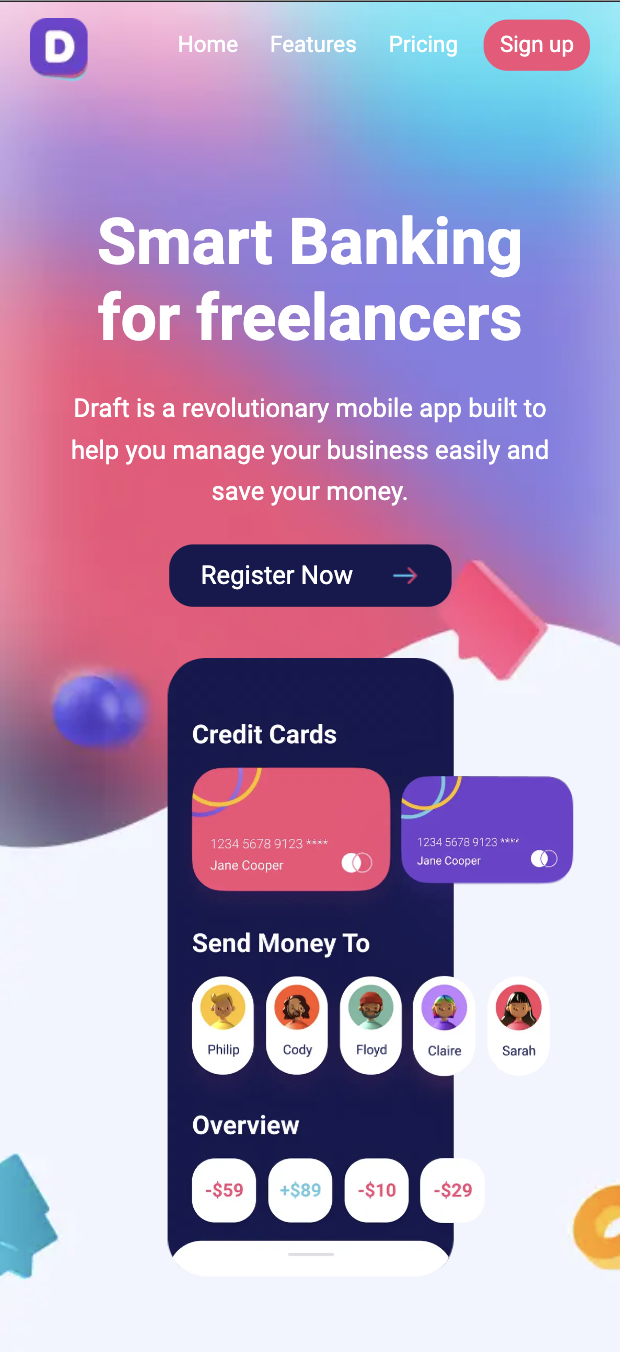
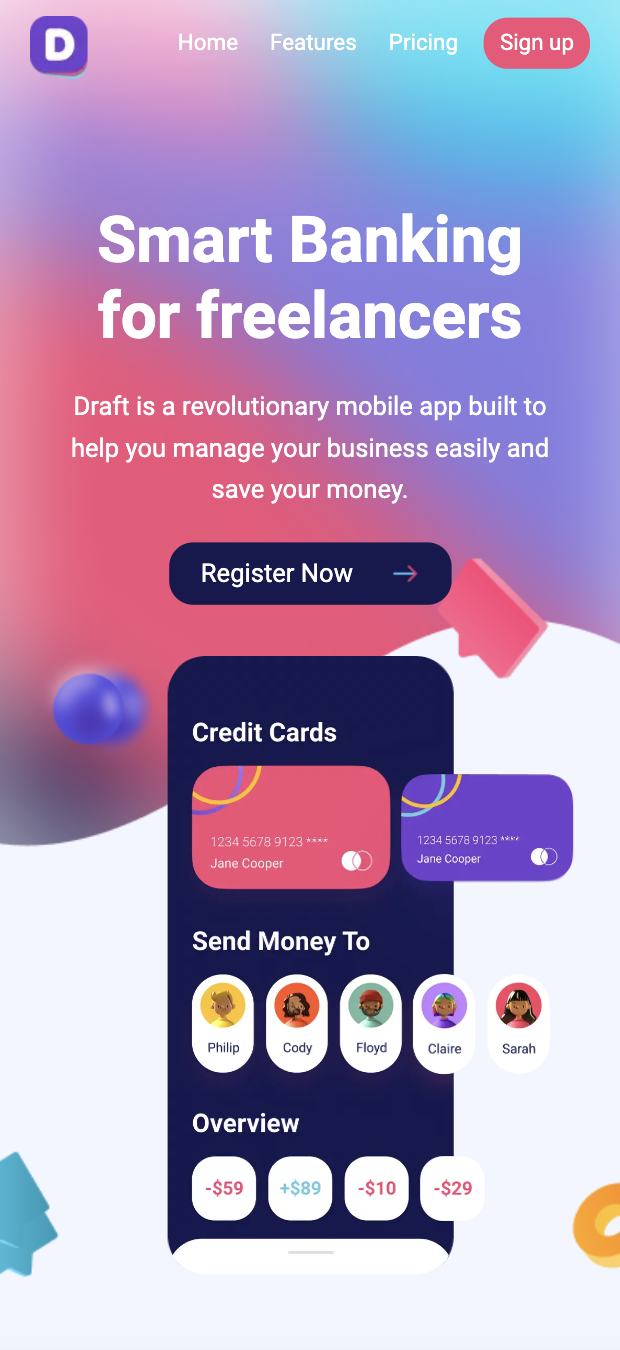
Minor optimization 📈

diff --git a/less/components/header.less b/less/components/header.less
@@ -2,7 +2,7 @@
 
 // Header
 .header {
-    background-image: url('../assets/mobile-bg.webp');
+    background-image: url('../assets/mobile-bg.png');
     background-repeat: no-repeat;
     background-size: 100%;
     
@@ -42,7 +42,7 @@
 @media screen and (min-width: @tablet) {
     // Styles for tablet view
     .header {
-        background-image: url('../assets/tablet-bg.webp');
+        background-image: url('../assets/tablet-bg.png');
         padding: 2%;
 
         &__logo img {
@@ -61,7 +61,7 @@
 @media screen and (min-width: @desktop) {
     // Styles for desktop view
     .header {
-        background-image: url('../assets/desktop-bg.webp');
+        background-image: url('../assets/desktop-bg.png');
 
         &__container {
             justify-content: space-around;
@@ -82,7 +82,7 @@
 @media screen and (min-width: @bigScreen) {
     // Styles for big desktop view
     .header {
-        background-image: url('../assets/desktop-bg.webp');
+        background-image: url('../assets/desktop-bg.png');
         padding: 5% 6%;
     }
 }

diff --git a/styles/styles.css b/styles/styles.css
@@ -138,7 +138,7 @@ h4 {
   }
 }
 .header {
-  background-image: url('../assets/mobile-bg.webp');
+  background-image: url('../assets/mobile-bg.png');
   background-repeat: no-repeat;
   background-size: 100%;
 }
@@ -170,7 +170,7 @@ h4 {
 }
 @media screen and (min-width: 768px) {
   .header {
-    background-image: url('../assets/tablet-bg.webp');
+    background-image: url('../assets/tablet-bg.png');
     padding: 2%;
   }
   .header__logo img {
@@ -185,7 +185,7 @@ h4 {
 }
 @media screen and (min-width: 1025px) {
   .header {
-    background-image: url('../assets/desktop-bg.webp');
+    background-image: url('../assets/desktop-bg.png');
   }
   .header__container {
     justify-content: space-around;
@@ -201,7 +201,7 @@ h4 {
 }
 @media screen and (min-width: 1600px) {
   .header {
-    background-image: url('../assets/desktop-bg.webp');
+    background-image: url('../assets/desktop-bg.png');
     padding: 5% 6%;
   }
 }

diff --git a/README.md b/README.md
@@ -58,7 +58,7 @@ For the sake of providing good SEO conversion, I have chosen several keywords th
 
 Also, with accessibility in mind, I have tried to make sound use of the alt property of images, and I have made use of specific element tags, from the most usual ones like the div, to some rare ones like summary, details, or canvas.
 
-Performance-wise, I decided to only use WEBP images so that I could reduce as much as possible the loading time for assets and their memory usage. On that line, most animations have been coded by myself (except for the swiper), like the accordions for the FAQ section, which recently received this new feature!
+Performance-wise, I decided to use WEBP images for elements and PNG for backgrounds so that I could reduce as much as possible the loading time for assets and their memory usage. On that line, most animations have been coded by myself (except for the swiper), like the accordions for the FAQ section, which recently received this new feature!
 
 Last but not least, if I had to point out something I'd improve, I'd say the header section of the mobile view. Unfortunately, I did not have time to implement a hamburger menu for its navigation bar, but I am fully aware that's the n1 priority that'd fall on my backlog.
 
